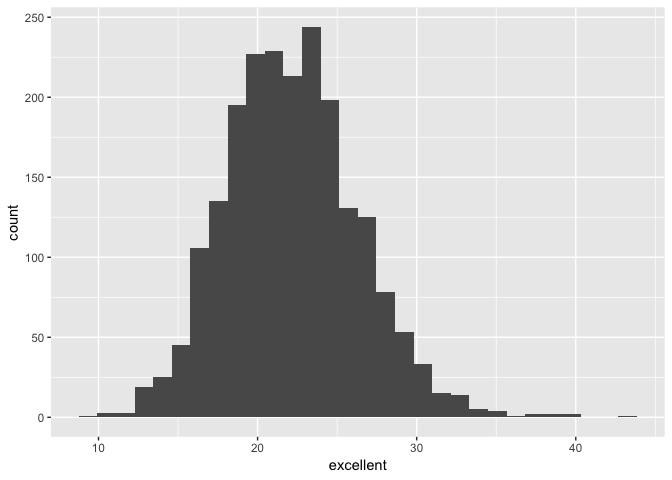
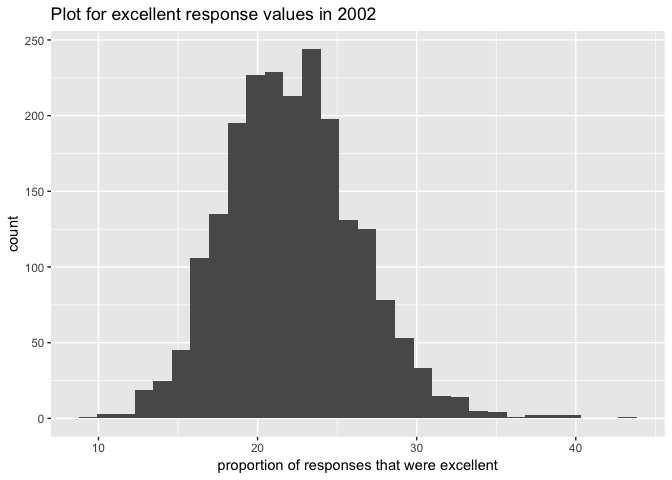
adjust labs and titles for the plots

diff --git a/p8105_hw2_ym2715.md b/p8105_hw2_ym2715.md
@@ -186,7 +186,11 @@ Q3: Make a histogram of “Excellent” response values in the year 2002.
 
 ``` r
 ggplot(brfss_overall_health, aes(x = excellent)) +
-  geom_histogram()
+  geom_histogram() +
+  labs(
+    title = "Plot for excellent response values in 2002",
+    x = "proportion of responses that were excellent"
+  )
 ```
 
     ## `stat_bin()` using `bins = 30`. Pick better value with `binwidth`.
@@ -199,7 +203,16 @@ Q4: Make a scatterplot showing the proportion of “Excellent” response values
 brfss_overall_health %>% 
   filter(location_desc == "NY - New York County" | location_desc == "NY - Queens County") %>% 
   ggplot(aes(x = year, y = excellent, color = location_desc)) +
-  geom_point()
+  geom_point() +
+  geom_smooth(se = FALSE) +
+  labs(
+    title = "BRFSS response plot in New York and Queens",
+    x = "Year",
+    y = "Proportion of responses that were excellent"
+  ) +
+  theme(legend.position = "bottom")
 ```
+
+    ## `geom_smooth()` using method = 'loess' and formula 'y ~ x'
 
 ![](p8105_hw2_ym2715_files/figure-markdown_github/unnamed-chunk-14-1.png)
